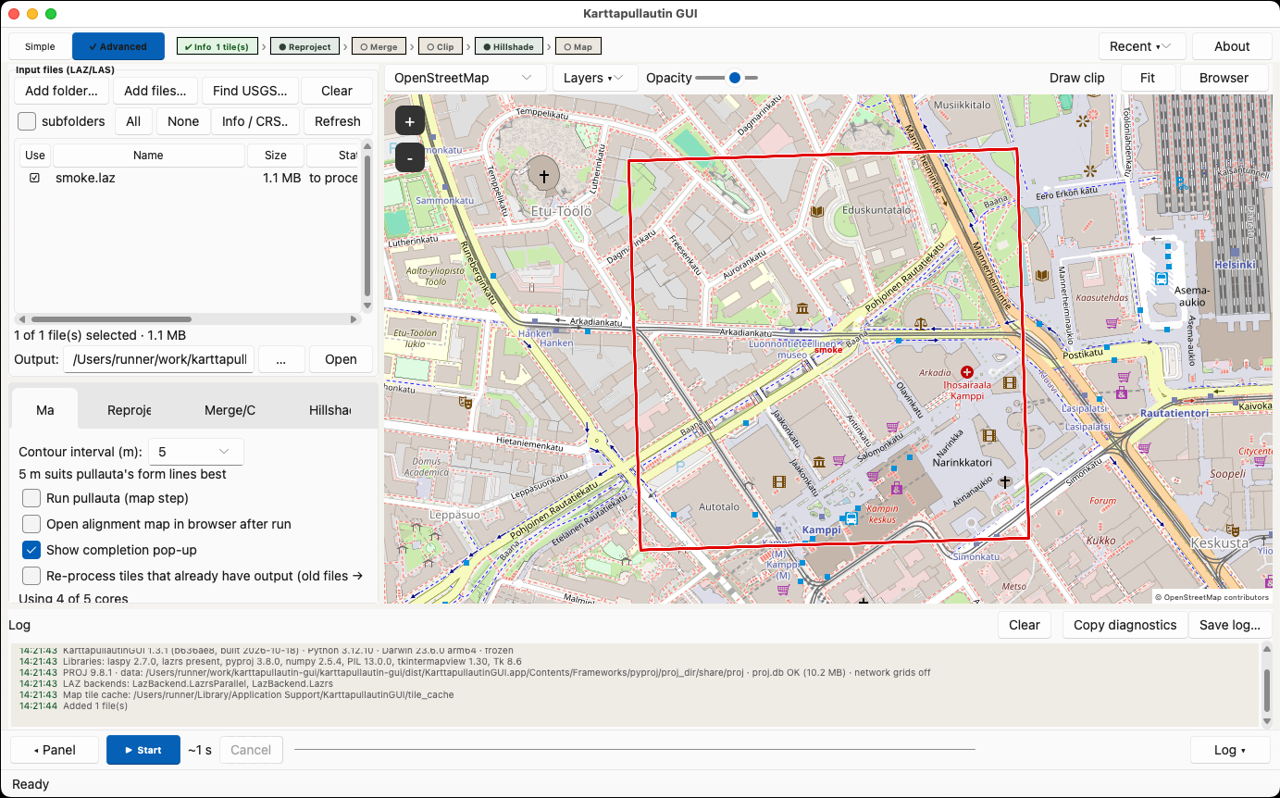
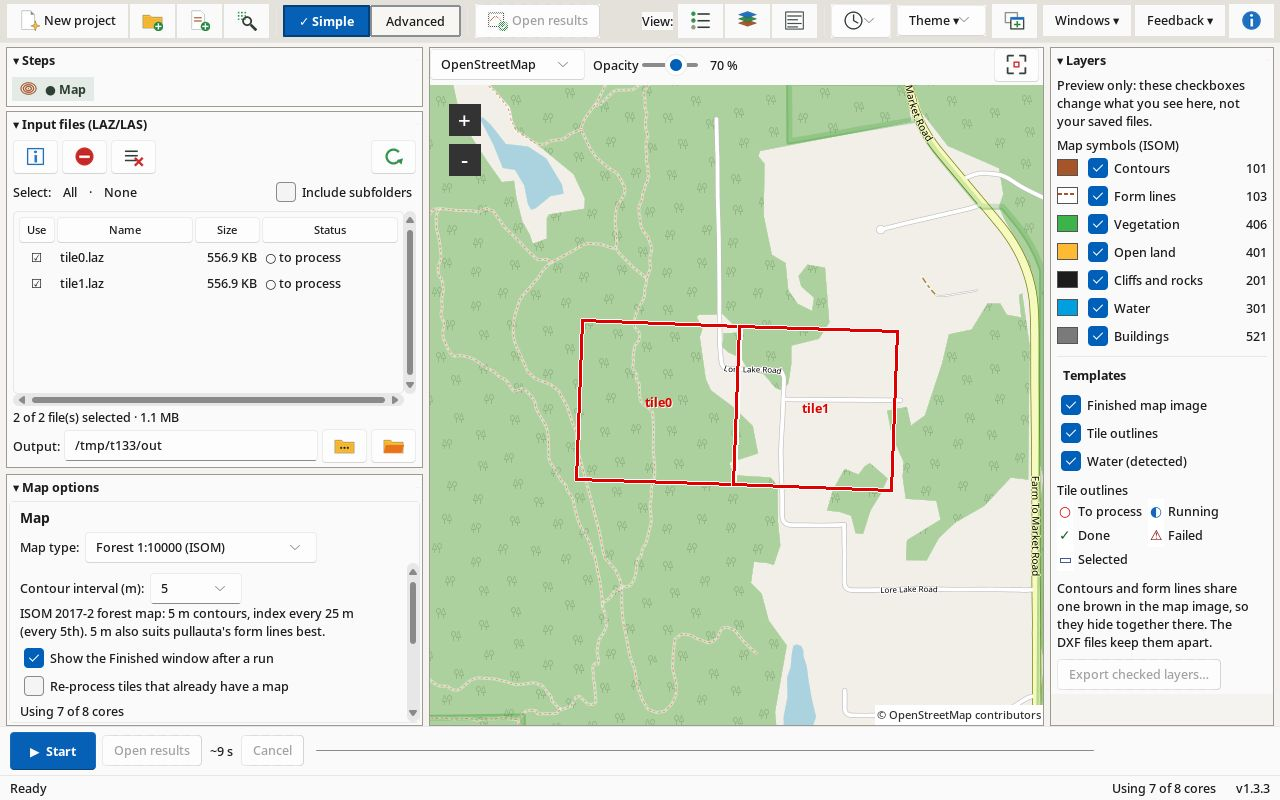
README for v1.3.3: NRCan/BC, map types, lakes, feedback and license; new screenshots; credits line removed

diff --git a/README.md b/README.md
@@ -16,11 +16,19 @@ This repository only hosts the ready-to-run downloads. Get them from the [Releas
 
 ## What it does
 
-- **Find LiDAR:** draw your area on the map and the app lists the USGS LiDAR that covers it. Where Amazon has a copy (⚡), it downloads only your area, fast.
-- **Crop:** draw a box or a polygon. Only the points inside are used, and the map is blank outside your area and your data.
+![The main window: file list and settings on the left, a live map of the LiDAR tiles on the right](docs/main_window.png)
+
+- **Find LiDAR:** draw your area on the map and the app lists the LiDAR that covers it: USGS in the US, NRCan in Canada and LidarBC in British Columbia. Where it can (⚡), it downloads only your area, fast.
+- **Crop:** draw a box or a polygon, even before adding files, or use a park's outline plus a buffer. Only the points inside are used, and the map is blank outside your area and your data.
+- **Map type:** Forest 1:10000, Forest 1:7500 or Sprint 1:4000 (ISOM / ISSprOM).
+- **Lakes and ponds** are found in the LiDAR and shown in blue, with no contours on water.
+- **Old LiDAR** with no ground points marked still makes a map: the app marks the ground itself.
 - **Files with no location:** type the place name once, and the app finds the coordinate system that puts the files there.
 - **Map:** reprojects to UTM meters, merges tiles, makes a hillshade and runs pullauta. You can watch the result on the built-in map.
-- **Several projects:** one window per project (New window, Ctrl+N).
+- **Several projects:** one window per project (New window, Ctrl+N), listed under **Windows ▾**. **New project** starts over after asking.
+- **Light or dark:** **Theme ▾** on the toolbar.
+
+![The finder in dark mode: Download at the top](docs/finder_dark.jpg)
 
 ## First launch
 
@@ -38,6 +46,14 @@ Karttapullautin GUI is a free hobby project. Apple charges $99 a year and Window
 - **Mac:** the first time, right-click the app, choose **Open**, then **Open** again. On newer macOS, go to System Settings › Privacy & Security and click **Open Anyway**.
 - **Windows:** if SmartScreen appears, click **More info**, then **Run anyway**.
 
-## Credits
+## Feedback
 
-Thanks to **Jeff Teutsch** for his expert guidance and for helping shape the vision for this app.
+In the app, **Feedback ▾ → Report a bug** or **Suggest a feature**, or use the [forms here](../../issues/new/choose). You need a free GitHub account.
+
+## License
+
+Free for personal, club, school and other non-commercial use under the [PolyForm Noncommercial License 1.0.0](https://polyformproject.org/licenses/noncommercial/1.0.0/). For commercial use, send a [Commercial use request](../../issues/new?template=commercial_use.yml).
+
+pullauta (Karttapullautin) is a separate program under the GPL-3.0 ([source](https://github.com/karttapullautin/karttapullautin)).
+
+More help is in the [wiki](../../wiki).
